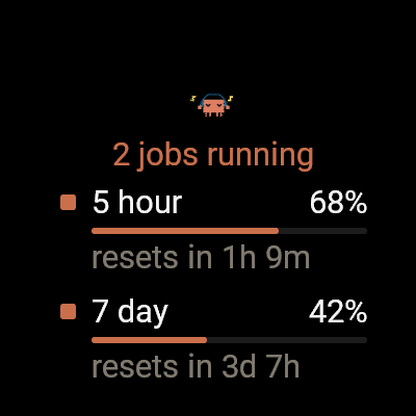
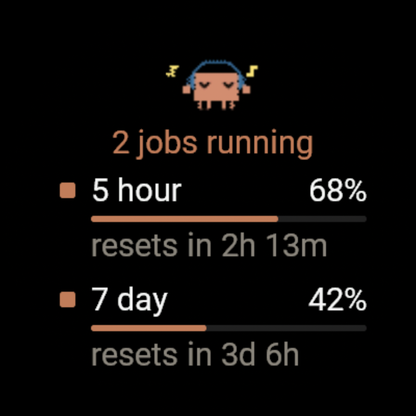
feat: readable sync ages, a manifest version, and self-seeding screenshots
Four changes, all watch-side.

"synced 492m ago" made the wearer do the division. Snap.syncedLabel rolls
minutes up the way the reset countdown already did — "synced 8h 12m ago",
"synced 3d 3h ago" — and says "synced just now" rather than "synced 0m ago".
All three pages used the same hand-built string, so all three now call it.

manifest.xml gains version="1.0.1" on iq:application. The schema accepts it
(verified by building), and without it the store submission form is the only
record of which build is which.

scripts/shoot-pages.sh now generates its own fake snapshot. Previously this
lived in ClaudePulseApp.mc as seedFakeDataForScreenshots(), with a note in
CLAUDE.md to remember to delete it before a store export — the kind of
arrangement that eventually ships fake data to real users. The script writes
watch/source/_ScreenshotSeed.mc, injects the call into onStart(), and deletes
both in its existing trap, so the tree is clean whether or not it succeeds.
The seed also carries a 7-day cost series, so the chart on page 3 shows real
variation instead of one bar.

Screenshots regenerated from that: docs/images/* and the store assets now show
the corrected mascot instead of the microscopic one from before the sprite
crop.

diff --git a/CLAUDE.md b/CLAUDE.md
@@ -102,10 +102,16 @@ script prints each file's size at the end — check that column before uploading
 
 ## Fake data
 
-The simulator has no relay, so `ClaudePulseApp.seedFakeDataForScreenshots()` writes a
-snapshot via `Snap.save(...)` matching the mockup's values (68 % / 42 %, 2 jobs,
-$14.82, 2.1M tokens). It is a temporary dev aid: **remove the function and its call in
-`onStart()` before any real build or store export.**
+The simulator has no relay, so every page would render `--`. `scripts/shoot-pages.sh`
+generates `watch/source/_ScreenshotSeed.mc` with the mockup's values (68 % / 42 %, 2
+jobs, $14.82, 2.1M tokens, a 7-day cost series) and injects a call in `onStart()`, then
+deletes both on exit via its trap.
+
+It is generated rather than committed on purpose. The previous version of this was a
+`seedFakeDataForScreenshots()` function living in `ClaudePulseApp.mc` with a note here
+saying "remember to delete it before a store export" — precisely the kind of thing that
+eventually ships fake data to real users. Nothing to remember now: the tree is clean
+whether or not the script succeeds. Verify with `git status watch/` after running it.
 
 ## Releases — required for every feature
 
